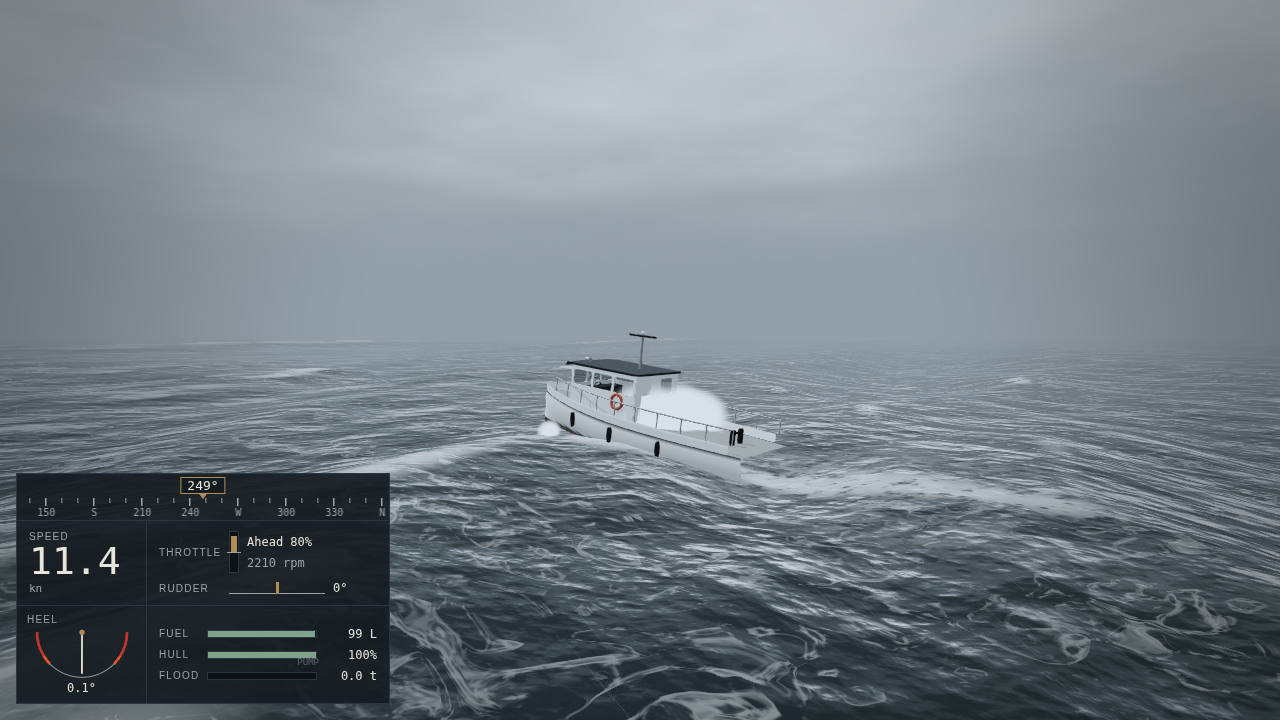
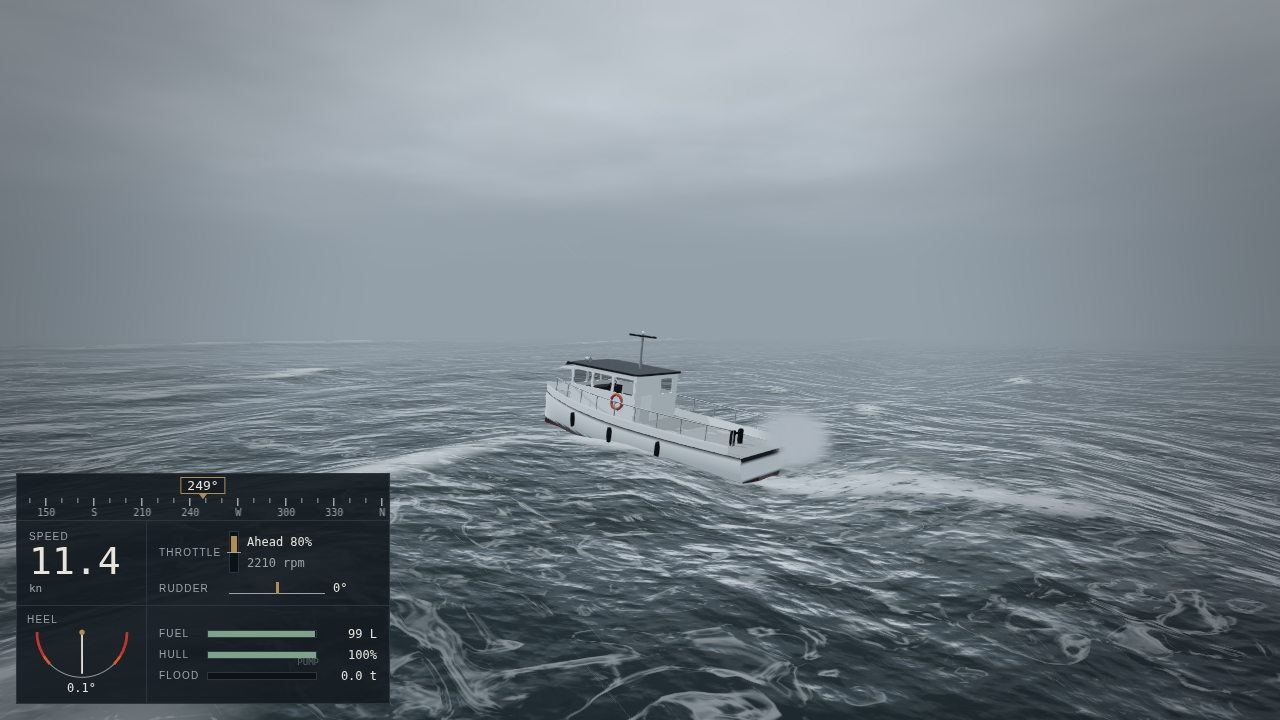
Fix invisible spray droplets: mirrored quad winding was back-face culled
The droplet corner frame used perp = (-dir.y, dir.x), a reflection of the
corner axes, so every droplet quad wound clockwise and FrontSide culled it.
Mist uses a proper rotation and was unaffected. Use (dir.y, -dir.x), render
DoubleSide as a guard, and tune the look: thinner motion-blurred streaks
whose opacity falls with length, denser slam/bow droplets, a softer landing
fade, stronger mist. Debug: __game.view() and __game.render() for framing
screenshots relative to the boat.

Claude-Session: https://claude.ai/code/session_017Su6rcrj4izoRMC3peEWqU

Changed region(s): [[0.4688, 0.5194, 0.6562, 0.6722], [0.4062, 0.5806, 0.4375, 0.6111]]

diff --git a/src/ocean/Spray.js b/src/ocean/Spray.js
@@ -32,9 +32,14 @@ void main() {
   float len = length(v);
   vec2 dir = v / max(len, 1e-3);
   dir = mix(vec2(0.0, 1.0), dir, step(1e-3, len));
-  vec2 perp = vec2(-dir.y, dir.x);
-  float stretch = 1.0 + clamp(len * 0.16, 0.0, 5.0);
-  vec2 dropOffset = perp * (corner.x * size) + dir * (corner.y * size * stretch);
+  // (dir.y, -dir.x) keeps the quad's winding (a proper rotation of the
+  // corner frame); the mirrored perp flipped it and FrontSide culled every
+  // droplet.
+  vec2 perp = vec2(dir.y, -dir.x);
+  // Motion blur over ~1/30 s: thin streaks along the screen velocity whose
+  // opacity falls as they lengthen (the same light spread over more area).
+  float stretch = 1.0 + clamp(len * 0.3, 0.0, 7.0);
+  vec2 dropOffset = perp * (corner.x * size * 0.7) + dir * (corner.y * size * stretch);
   float c = cos(aMeta.z);
   float s = sin(aMeta.z);
   vec2 mistOffset = vec2(c * corner.x - s * corner.y, s * corner.x + c * corner.y) * size;
@@ -46,7 +51,8 @@ void main() {
   float row = floor(cell / 2.0);
   vUv = vec2((col + corner.x + 0.5) / 4.0, (row + corner.y + 0.5) / 2.0);
   float camFade = smoothstep(0.6, 3.5, -mv.z);
-  vAlpha = aVelAlpha.w * camFade;
+  float blur = mix(min(1.0, 1.35 * inversesqrt(stretch)), 1.0, isMist);
+  vAlpha = aVelAlpha.w * camFade * blur;
   vKind = aMeta.x;
   vWorld = pos;
   gl_Position = projectionMatrix * mv;
@@ -128,6 +134,7 @@ export class Spray {
       fragmentShader,
       transparent: true,
       depthWrite: false,
+      side: THREE.DoubleSide,
     });
     this.mesh = new THREE.Mesh(geo, this.material);
     this.mesh.frustumCulled = false;
@@ -159,7 +166,7 @@ export class Spray {
     this.cell[i] = Math.floor(rng() * 4);
     this.rot[i] = rng() * Math.PI * 2;
     this.spin[i] = (rng() - 0.5) * 1.2;
-    this.floor[i] = py - 0.8;
+    this.floor[i] = py - 1.1;
   }
 
   // Fast, bright droplet clusters (streaks).
@@ -172,7 +179,7 @@ export class Spray {
   // Soft mist puffs that billow and hang in the air.
   mist(n, px, py, pz, vx, vy, vz, spread, size = 1.4, life = 2.4) {
     for (let k = 0; k < n; k++) {
-      this.spawn(MIST, px, py, pz, vx, vy, vz, spread, size, life, 0.16, 1.3);
+      this.spawn(MIST, px, py, pz, vx, vy, vz, spread, size, life, 0.22, 1.5);
     }
   }
 
@@ -218,7 +225,9 @@ export class Spray {
       this.velAlpha[q] = this.vel[o];
       this.velAlpha[q + 1] = this.vel[o + 1];
       this.velAlpha[q + 2] = this.vel[o + 2];
-      this.velAlpha[q + 3] = this.alpha0[j] * Math.min(1, t * 1.8) * fadeIn;
+      // Fade out as the particle falls back to the surface.
+      const land = Math.min(1, (this.pos[o + 1] - this.floor[j]) * 2.5);
+      this.velAlpha[q + 3] = this.alpha0[j] * Math.min(1, t * 1.8) * fadeIn * land;
       this.meta[o] = this.kind[j];
       this.meta[o + 1] = this.cell[j];
       this.meta[o + 2] = this.rot[j];

diff --git a/src/entities/BoatEffects.js b/src/entities/BoatEffects.js
@@ -97,17 +97,17 @@ export class BoatEffects {
     if (pr.ventilation > 0.2) {
       foam.paint(p.x, p.z, 1.6, pr.ventilation * 0.3 * f60);
       const nv = Math.ceil(pr.ventilation * 40 * dt);
-      this.spray.droplets(nv * 3, p.x, p.y + 0.2, p.z, 0, 2.5, 0, 3, 0.3, 0.8);
+      this.spray.droplets(nv * 4, p.x, p.y + 0.2, p.z, 0, 2.5, 0, 3, 0.2, 0.8);
       this.spray.mist(nv, p.x, p.y + 0.3, p.z, 0, 1, 0, 1.5, 1.2, 1.6);
     }
     // Slams: foam burst + spray.
     for (const s of slams) {
       foam.paint(s.x, s.z, 2 + s.speed * 0.4, FOAM.slamStrength);
-      const n = Math.min(220, Math.round(s.speed * SPRAY.slamParticlesPerMs));
+      const n = Math.min(360, Math.round(s.speed * SPRAY.slamParticlesPerMs));
       const v = sim.state.linvel;
       // A sheet of droplets flung up and out, and a mist cloud that lingers
       // and drifts downwind.
-      this.spray.droplets(n, s.x, s.y + 0.1, s.z, v.x * 0.75, 3 + s.speed * 1.2, v.z * 0.75, 3 + s.speed * 0.9, 0.55, 1.5);
+      this.spray.droplets(n, s.x, s.y + 0.1, s.z, v.x * 0.75, 3 + s.speed * 1.2, v.z * 0.75, 3 + s.speed * 0.9, 0.3, 1.5);
       this.spray.mist(Math.ceil(n / 4), s.x, s.y + 0.4, s.z, v.x * 0.5, 1.5 + s.speed * 0.6, v.z * 0.5, 3.2, 1.1, 2.6);
     }
     // Bow spray at speed, from the bow shoulders.
@@ -123,7 +123,7 @@ export class BoatEffects {
           this.local(side * (1.5 + u * 0.12), 0, 0, out);
           const ox = out.x - sim.state.pos.x;
           const oz = out.z - sim.state.pos.z;
-          this.spray.droplets(n, p.x, p.y, p.z, v.x * 0.55 + ox, 1.5 + u * 0.18, v.z * 0.55 + oz, 1.6, 0.28, 1.0);
+          this.spray.droplets(n, p.x, p.y, p.z, v.x * 0.55 + ox, 1.5 + u * 0.18, v.z * 0.55 + oz, 1.6, 0.2, 1.0);
           if (this.spray.rng() < 0.25 * n) {
             this.spray.mist(1, p.x, p.y + 0.2, p.z, v.x * 0.4 + ox * 0.5, 1, v.z * 0.4 + oz * 0.5, 1, 1.0, 1.6);
           }

diff --git a/src/debug/Debug.js b/src/debug/Debug.js
@@ -28,6 +28,24 @@ export class Debug {
           game.session.sim.slamEvents.length = 0;
         }
       },
+      // Orbit camera framing relative to the boat: compass bearing from the
+      // boat (deg, relative to its heading), distance and height (m).
+      view: (bearing, dist = 14, height = 4) => {
+        const s = game.session;
+        if (!s) {
+          return;
+        }
+        const p = s.sim.state.pos;
+        const b = s.sim.heading + (bearing * Math.PI) / 180;
+        const pos = new THREE.Vector3(p.x + Math.sin(b) * dist, p.y + height, p.z - Math.cos(b) * dist);
+        const dir = new THREE.Vector3(p.x, p.y + 1, p.z).sub(pos).normalize();
+        game.rig.setMode('orbit');
+        game.rig.lookAlong(pos, dir);
+        game.rig.controls.target.set(p.x, p.y + 1, p.z);
+        game.rig.controls.update();
+      },
+      // Draw one frame without advancing time (for a paused loop).
+      render: () => game.renderFrame(0, 0),
       strike: (hold = 0) => {
         game.lightning.hold = hold;
         game.lightning.strike(game.camera, true);

diff --git a/src/config/render.js b/src/config/render.js
@@ -53,9 +53,9 @@ export const FOAM = {
 };
 
 export const SPRAY = {
-  maxParticles: 2400,
-  bowRatePerKn: 9, // particles/s per knot of speed at the bow
-  slamParticlesPerMs: 30, // burst size per m/s of slam speed
+  maxParticles: 3200,
+  bowRatePerKn: 14, // particles/s per knot of speed at the bow
+  slamParticlesPerMs: 45, // burst size per m/s of slam speed
   propWashRate: 50,
   size: 0.55,
   life: 1.6,
